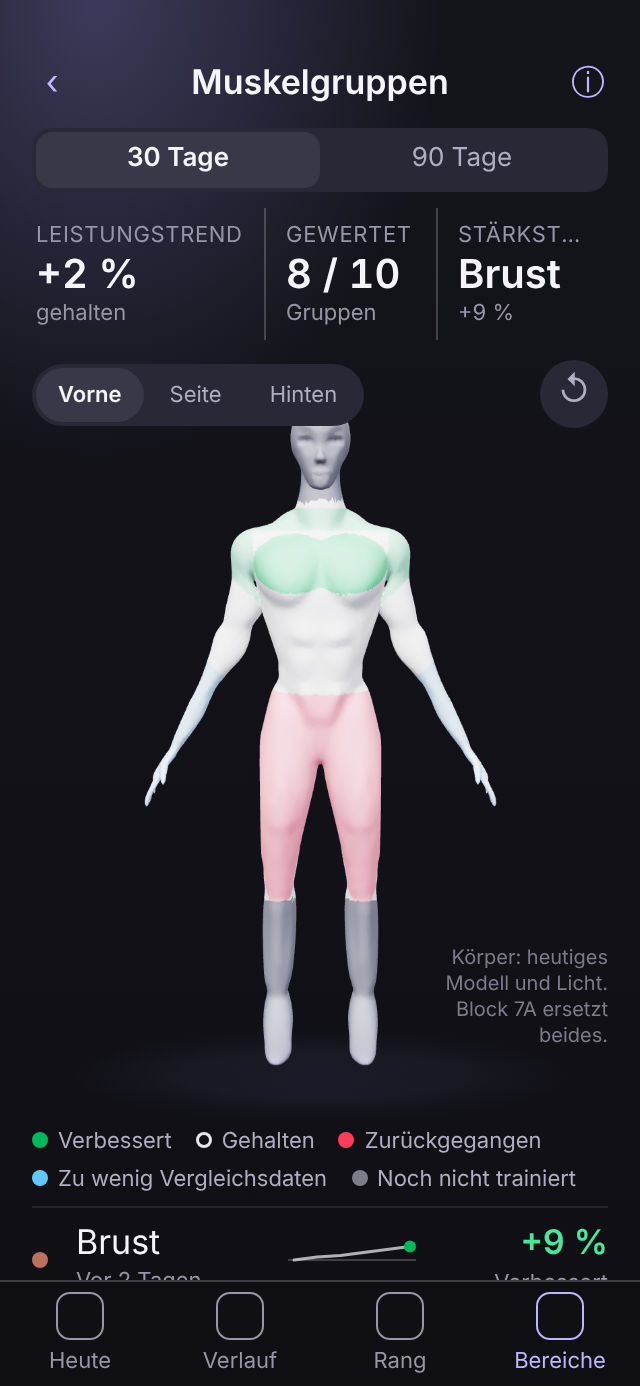
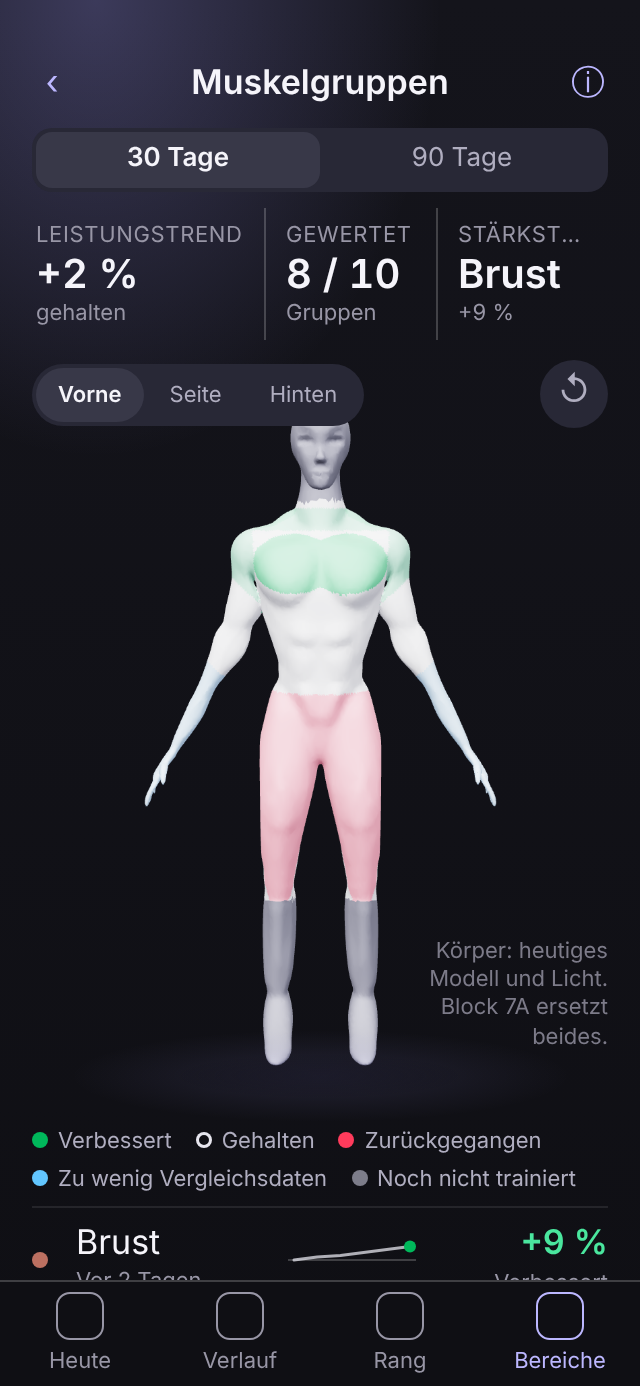
Block 0: mock-up notes at 11px; an unmarked rule in the contract is a proposal
The mock-ups' own annotations sat at 10px, below the minimum the contract
sets; the screenshot script no longer exempts them. The contract says what
a rule without a mark is.

Claude-Session: https://claude.ai/code/session_01DdLuA9TSaUni1Us2ZiTbE9

Changed region(s): [[0.6562, 0.6825, 0.9688, 0.7756]]

diff --git a/docs/wp3/mockups/mockup.css b/docs/wp3/mockups/mockup.css
@@ -80,7 +80,7 @@ body { font: 400 var(--type-body)/1.35 system-ui, -apple-system, 'Segoe UI', Rob
 .views span { padding: 6px 11px; font-size: var(--type-caption); border-radius: 999px; color: var(--text-secondary); }
 .views span[aria-current="true"] { background: var(--surface-selected); color: var(--text-primary); font-weight: 600; }
 .stage .tool { position: absolute; right: var(--page-gutter); top: 6px; width: 34px; height: 34px; display: grid; place-items: center; border-radius: 50%; background: var(--surface-input); color: var(--text-secondary); z-index: 1; }
-.stage .note { position: absolute; right: var(--page-gutter); bottom: 30px; max-width: 34%; text-align: right; font-size: 10px; line-height: 1.3; color: var(--text-tertiary); opacity: .8; }
+.stage .note { position: absolute; right: var(--page-gutter); bottom: 30px; max-width: 34%; text-align: right; font-size: var(--type-caption); line-height: 1.3; color: var(--text-tertiary); opacity: .8; }
 
 .legend { display: flex; flex-wrap: wrap; gap: 4px 12px; padding: 8px 0 6px; font-size: var(--type-caption); color: var(--text-secondary); }
 .legend i, .dot { display: inline-block; width: 8px; height: 8px; border-radius: 50%; margin-right: 5px; vertical-align: 0; }
@@ -143,7 +143,7 @@ svg .bar { fill: var(--data-ink); fill-opacity: .55; }
 .sheetpage h2 { margin: 0 0 2px; font-size: var(--type-title); }
 .sheetpage h3 { margin: 18px 0 8px; font-size: var(--type-footnote); font-weight: 600; color: var(--text-secondary); text-transform: uppercase; letter-spacing: .04em; }
 .swatches { display: flex; flex-wrap: wrap; gap: 8px; }
-.sw { width: 54px; font-size: 10px; color: var(--text-tertiary); text-align: center; }
+.sw { width: 62px; font-size: var(--type-caption); color: var(--text-tertiary); text-align: center; }
 .sw b { display: block; height: 30px; border-radius: 8px; margin-bottom: 3px; }
 .pair { display: grid; grid-template-columns: 1fr 1fr; gap: 10px; align-items: start; }
 .pair > div > small { display: block; font-size: var(--type-caption); color: var(--text-tertiary); margin-bottom: 4px; }

diff --git a/docs/wp3/vertrag.md b/docs/wp3/vertrag.md
@@ -7,6 +7,8 @@ Dieser Vertrag legt fest, wie Momentum aussieht und spricht. Die folgenden Blöc
 - **festgelegt** heisst: Dario hat entschieden; die Nummer verweist auf `docs/decisions.md`.
 - **Vorschlag** heisst: Die Regel wird am STOP 0 bestätigt oder geändert.
 
+Eine Regel ohne Marke ist ein Vorschlag.
+
 Belege sind die drei Mockups unter `docs/wp3/mockups/` (Screenshots in `bilder/`, je 393 und 320 px breit).
 
 ## §1 Leitbild und Geltung
